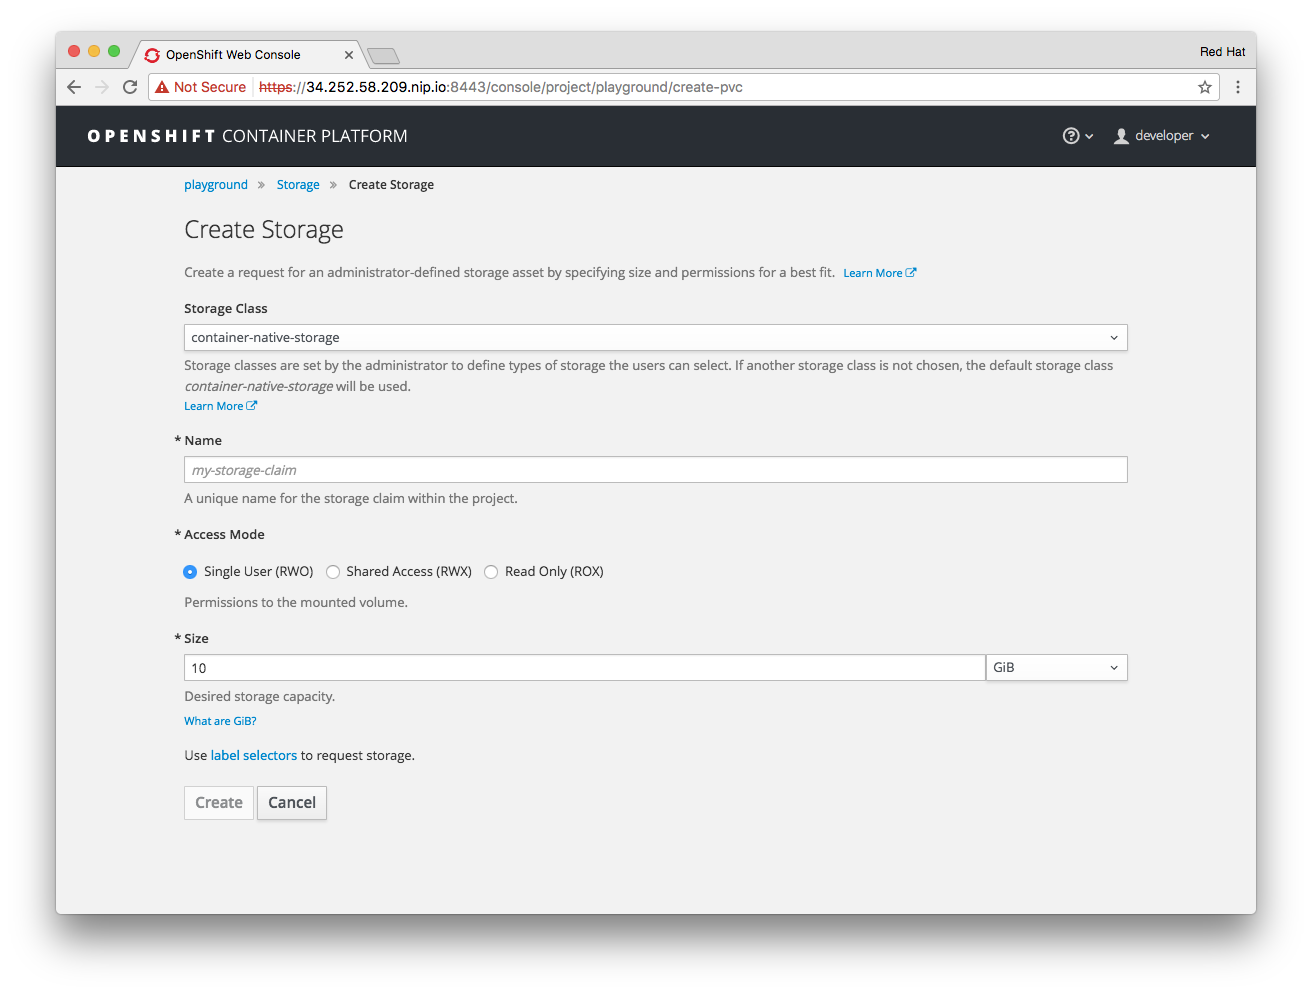
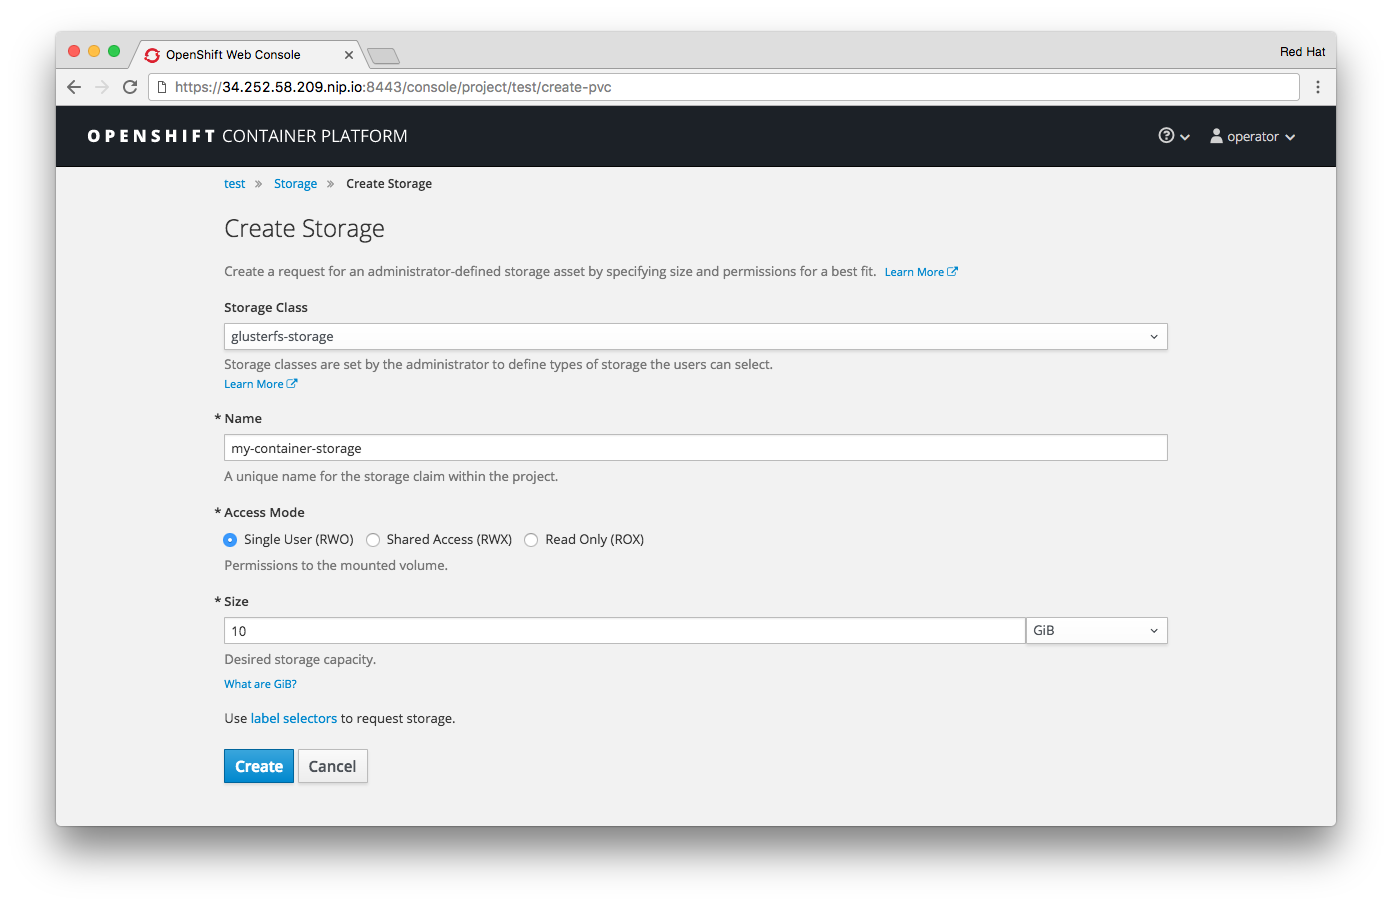
module 3 rework

Changed region(s): [[0.0312, 0.0309, 0.9688, 0.8653], [0.0312, 0.8962, 0.9688, 0.9272]]

diff --git a/lab-guide/docs/module-3-using-cns.md b/lab-guide/docs/module-3-using-cns.md
@@ -1,104 +1,62 @@
 !!! Summary "Overview"
     In this module you will use CNS as a developer would do in OpenShift. For that purpose you will dynamically provision storage both in standalone fashion and in context of an application deployment.
 
-Creating a StorageClass
------------------------
+OpenShift Storage 101
+---------------------
 
-OpenShift uses Kubernetes' PersistentStorage facility to dynamically allocate storage of any kind for applications. This is a fairly simple framework in which only 3 components exists: the storage provider, the storage volume and the request for a storage volume.
+OpenShift uses Kubernetes' PersistentStorage facility to dynamically allocate storage of any kind for applications. This is a fairly simple framework in which only 3 components are relevant: the storage provider, the storage volume and the request for a storage volume.
 
 [![OpenShift Storage Lifecycle](img/cns_diagram_pvc.svg)](img/cns_diagram_pvc.svg)
 
-OpenShift knows non-ephemeral storage as "persistent" volumes. This is storage that is decoupled from pod lifecycles. Users can request such storage by submitting a *PersistentVolumeClaim* to the system, which carries aspects like desired capacity or access mode (shared, single, read-only).
+OpenShift knows non-ephemeral storage as "persistent" volumes. This is storage that is decoupled from pod lifecycles. Users can request such storage by submitting a `PersistentVolumeClaim` to the system, which carries aspects like desired capacity or access mode (shared, single, read-only).
 
-A storage provider in the system is represented by a *StorageClass* and is referenced in the claim. Upon receiving the claim it talks to the API of the actual storage system to provision the storage.  
+A storage provider in the system is represented by a `StorageClass` and is referenced in the claim. Upon receiving the claim it talks to the API of the actual storage system to provision the storage.  
 
-The provisioned storage is represented in OpenShift as a *PersistentVolume* which can directly be used by pods to mount it.
+The provisioned storage is represented in OpenShift as a `PersistentVolume` which can directly be used by pods to mount it.
 
-With these basics defined we can configure our system for CNS. First we will set up the credentials for CNS in OpenShift.
+With these basics defined we can try CNS in our system. First examine the `StorageClass` the installer has automatically created respectively.
 
-&#8680; Make sure you are logged on as `operator` and you are in the `default` namespace:
+&#8680; Make sure you are still logged in as `operator`:
 
-    oc whoami
+    oc login -u operator
 
-&#8680; If you are not `operator` log in again to the default namespace
+&#8680; Examine the `StorageClass` objects available:
 
-    oc login -u operator -n default
+    oc get storageclass
 
-&#8680; Create an encoded value for the CNS admin user like below:
+`openshift-ansible` defined a `StorageClass` for CNS:
 
-    echo -n "myS3cr3tpassw0rd" | base64
+~~~~
+NAME                TYPE
+glusterfs-storage   kubernetes.io/glusterfs
+~~~~
 
-The encoded string looks like this:
+&#8680; Let's look at the details:
 
-    bXlTM2NyM3RwYXNzdzByZA==
+    oc describe storageclass/glusterfs-storage
 
-We will store this encoded value in an OpenShift secret.
+The output indicates the backing storage type: GlusterFS
 
-&#8680; Create a file called `cns-secret.yml` with contents like below (highlight shows where to put encoded password):
+~~~~
+Name:		glusterfs-storage
+IsDefaultClass:	No
+Annotations:	<none>
+Provisioner:	kubernetes.io/glusterfs
+Parameters:	resturl=http://heketi-storage-app-storage.cloudapps.52.28.134.154.nip.io,restuser=admin,secretName=heketi-storage-admin-secret,secretNamespace=app-storage
+~~~~
 
-<kbd>cns-secret.yml:</kbd>
+!!! Note:
+    The exact value for `resturl` will again be different for you because it's based on the `route`/IP address on your system.
 
-```yaml hl_lines="7"
-apiVersion: v1
-kind: Secret
-metadata:
-  name: cns-secret
-  namespace: default
-data:
-  key: bXlTM2NyM3RwYXNzdzByZA==
-type: kubernetes.io/glusterfs
-```
-
-&#8680; Create the secret in OpenShift with the following command:
-
-    oc create -f cns-secret.yml
-
-To represent CNS as a storage provider in the system you first have to create a `StorageClass`. Define it by creating a file called `cns-storageclass.yml` which references the secret and the heketi URL shown earlier with the contents as below:
-
-!!! Warning "Important"
-    Replace the `resturl` parameter with your heketi URL.
-
-<a name="storageclass-setup"></a>
-
-<kbd>cns-storageclass.yml:</kbd>
-```yaml
-apiVersion: storage.k8s.io/v1beta1
-kind: StorageClass
-metadata:
-  name: container-native-storage
-  annotations:
-    storageclass.beta.kubernetes.io/is-default-class: "true"
-provisioner: kubernetes.io/glusterfs
-parameters:
-  resturl: "http://heketi-container-native-storage.cloudapps.34.252.58.209.nip.io"
-  restauthenabled: "true"
-  restuser: "admin"
-  volumetype: "replicate:3"
-  secretNamespace: "default"
-  secretName: "cns-secret"
-```
-
-&#8680; Create the StorageClass in OpenShift with the following command:
-
-    oc create -f cns-storageclass.yml
-
-With these components in place the system is ready to dynamically provision storage capacity from Container-native Storage.
+The *Provisioner* is the module in OpenShift/Kubernetes that can talk to the CNS API service: *heketi*. The parameters supplied tell the *Provisioner* the URL of the API as well as the `admin` users (defined in `restuser`) password in the form of an OpenShift `secret` (base64'd hash of the password).
 
 ---
 
 Requesting Storage
 ------------------
 
-To get storage provisioned as a user you have to "claim" storage. The `PersistentVolumeClaim` (PVC) basically acts a request to the system to provision storage with certain properties, like a specific capacity.  
+To get storage provisioned via this `StorageClass` as a user you have to "claim" storage. The object `PersistentVolumeClaim` (PVC) basically acts a request to the system to provision storage with certain properties, like a specific capacity.  
 Also the access mode is set here, where *ReadWriteOnce* allows one container at a time to mount and access this storage.
-
-&#8680; Where are going to do this as a regular OpenShift user. Login in as `developer`:
-
-    oc login -u developer
-
-&#8680; Create a new project called `playground` for this exercise:
-
-    oc new-project playground
 
 &#8680; Create a claim by specifying a file called `cns-pvc.yml` with the following contents:
 
@@ -108,15 +66,15 @@ kind: PersistentVolumeClaim
 apiVersion: v1
 metadata:
   name: my-container-storage
-  annotations:
-    volume.beta.kubernetes.io/storage-class: container-native-storage
 spec:
   accessModes:
   - ReadWriteOnce
   resources:
     requests:
       storage: 10Gi
+  storageClassName: glusterfs-storage
 ```
+
 With above PVC we are requesting 10 GiB of non-shared storage. Instead of *ReadWriteOnce* you could also have specified *ReadWriteOnly* (for read-only) and *ReadWriteMany* (for shared storage).
 
 &#8680; Submit the PVC to the system like so:
@@ -129,17 +87,15 @@ With above PVC we are requesting 10 GiB of non-shared storage. Instead of *ReadW
 
 You should see the PVC listed and in *Bound* state.
 
-    NAME                   STATUS    VOLUME                                     CAPACITY   ACCESSMODES   AGE
-    my-container-storage   Bound     pvc-382ac13d-4a9f-11e7-b56f-2cc2602a6dc8   10Gi       RWO           16s
+    NAME                   STATUS    VOLUME                                     CAPACITY   ACCESSMODES   STORAGECLASS        AGE
+    my-container-storage   Bound     pvc-848cbc48-9fe3-11e7-83c3-022238c6a515   10Gi       RWO           glusterfs-storage   6s
 
-!!! Note
-    It may take a couple seconds for the claim to be in **bound**.
 
 !!! Caution
-    If the PVC is stuck in *PENDING* state you will need to investigate. Run `oc describe pvc/my-container-storage` to see a more detailed explanation. Typically there are two root causes - the StorageClass is not properly setup (wrong name, wrong credentials, incorrect secret name, wrong heketi URL, heketi service not up, heketi pod not up…) or the PVC is malformed (wrong StorageClass, name already taken …)
+    If the PVC is stuck in *PENDING* state you will need to investigate. Run `oc describe pvc/my-container-storage` to see a more detailed explanation. Typically there are two root causes - the StorageClass is not properly specified (wrong name, not specified) or (less likely here) the backing storage system has a problem (in our case: error on heketi side, incorrect URL in `StorageClass`, etc.)
 
 !!! Tip
-    You can also do this step with the UI. Log on as `developer` and select or create a Project. Then go to the "Storage" tab. Select "Create" storage and make selections accordingly to the PVC described before.
+    You can also do this step with the UI. Log on as `operator` and select any Project. Then go to the "Storage" tab. Select "Create" storage and make selections accordingly to the PVC described before.
 
     [![Creating a PersistentVolumeClaim](img/openshift_pvc_create.png)](img/openshift_pvc_create.png)
 
@@ -152,15 +108,21 @@ When the claim was fulfilled successfully it is in the *Bound* state. That means
 The details of the PVC show against which `StorageClass` it has been submitted and the name of the `PersistentVolume` which was generated to fulfill the claim.
 
 ``` hl_lines="1 5"
-Name:           my-container-storage
-Namespace:      playground
-StorageClass:   container-native-storage
-Status:         Bound
-Volume:         pvc-382ac13d-4a9f-11e7-b56f-2cc2602a6dc8
-Labels:         <none>
-Capacity:       10Gi
-Access Modes:   RWO
-No events.
+Name:		my-container-storage
+Namespace:	app-storage
+StorageClass:	glusterfs-storage
+Status:		Bound
+Volume:		pvc-848cbc48-9fe3-11e7-83c3-022238c6a515
+Labels:		<none>
+Annotations:	pv.kubernetes.io/bind-completed=yes
+		pv.kubernetes.io/bound-by-controller=yes
+		volume.beta.kubernetes.io/storage-provisioner=kubernetes.io/glusterfs
+Capacity:	10Gi
+Access Modes:	RWO
+Events:
+  FirstSeen	LastSeen	Count	From				SubObjectPath	Type		Reason			Message
+  ---------	--------	-----	----				-------------	--------	------			-------
+  10m		10m		1	persistentvolume-controller			Normal		ProvisioningSucceeded	Successfully provisioned volume pvc-848cbc48-9fe3-11e7-83c3-022238c6a515 using kubernetes.io/glusterfs
 ```
 
 !!! Note
@@ -168,40 +130,40 @@ No events.
 
 In order to look at a the details of a PV in a default setup like this you need more privileges.
 
-&#8680; For convenience just log in as `operator` to this project:
-
-    oc login -u operator -n playground
-
 &#8680; Look at the corresponding PV by it’s name:
 
-    oc describe pv/pvc-382ac13d-4a9f-11e7-b56f-2cc2602a6dc8
+    oc describe pv/pvc-848cbc48-9fe3-11e7-83c3-022238c6a515
 
 The output shows several interesting things, like the access mode (RWO = ReadWriteOnce), the reclaim policy (what happens when the PV object gets deleted), the capacity and the type of storage backing this PV (in our case GlusterFS as part of CNS):
 
-``` hl_lines="4 5 6 7 8 11"
-Name:           pvc-382ac13d-4a9f-11e7-b56f-2cc2602a6dc8
-Labels:         <none>
-StorageClass:   container-native-storage
-Status:         Bound
-Claim:          container-native-storage/my-container-storage
-Reclaim Policy: Delete
-Access Modes:   RWO
-Capacity:       10Gi
+``` hl_lines="7 9 10 11 12 15"
+Name:		pvc-848cbc48-9fe3-11e7-83c3-022238c6a515
+Labels:		<none>
+Annotations:	pv.beta.kubernetes.io/gid=2001
+		pv.kubernetes.io/bound-by-controller=yes
+		pv.kubernetes.io/provisioned-by=kubernetes.io/glusterfs
+		volume.beta.kubernetes.io/mount-options=auto_unmount
+StorageClass:	glusterfs-storage
+Status:		Bound
+Claim:		app-storage/my-container-storage
+Reclaim Policy:	Delete
+Access Modes:	RWO
+Capacity:	10Gi
 Message:
 Source:
-    Type:               Glusterfs (a Glusterfs mount on the host that shares a pod's lifetime)
-    EndpointsName:      glusterfs-dynamic-my-container-storage
-    Path:               vol_304670f0d50bf5aa4717a69652bd48ff
-    ReadOnly:           false
-No events.
+    Type:		Glusterfs (a Glusterfs mount on the host that shares a pod's lifetime)
+    EndpointsName:	glusterfs-dynamic-my-container-storage
+    Path:		vol_7e1733b13e1b46c028a71590f8cfe8b5
+    ReadOnly:		false
+Events:			<none>
 ```
 
 !!! Tip "Why is it called *Bound*?"
-    Originally PVs weren't automatically created. Hence in earlier documentation you may also find references about administrators actually **pre-provisioning** PVs. Later PVCs would "pick up" a suitable PV by looking at it’s capacity. When successful they are *bound* to this PV.
+    Originally PVs weren't automatically created. Hence in earlier documentation you may also find references about administrators actually **pre-provisioning** PVs. Later PVCs would "pick up"/match a suitable PV by looking at it’s capacity and access mode. When successful they are *bound* to this PV.
     This was needed for storage like NFS that does not have an API and therefore does not support **dynamic provisioning**. Hence it's called **static provisioning**.
     This kind of storage should not be used anymore as it requires manual intervention, risky capacity planning and incurs inefficient storage utilization.
 
-Let’s release this storage capacity again.
+Although the storage is provisioned on the GlusterFS side it's not yet used by any application/pod/host. So let’s release this storage capacity again.
 Storage is freed up by deleting the **PVC**. The PVC controls the lifecycle of the storage, not the PV.
 
 !!! Caution "Important"
